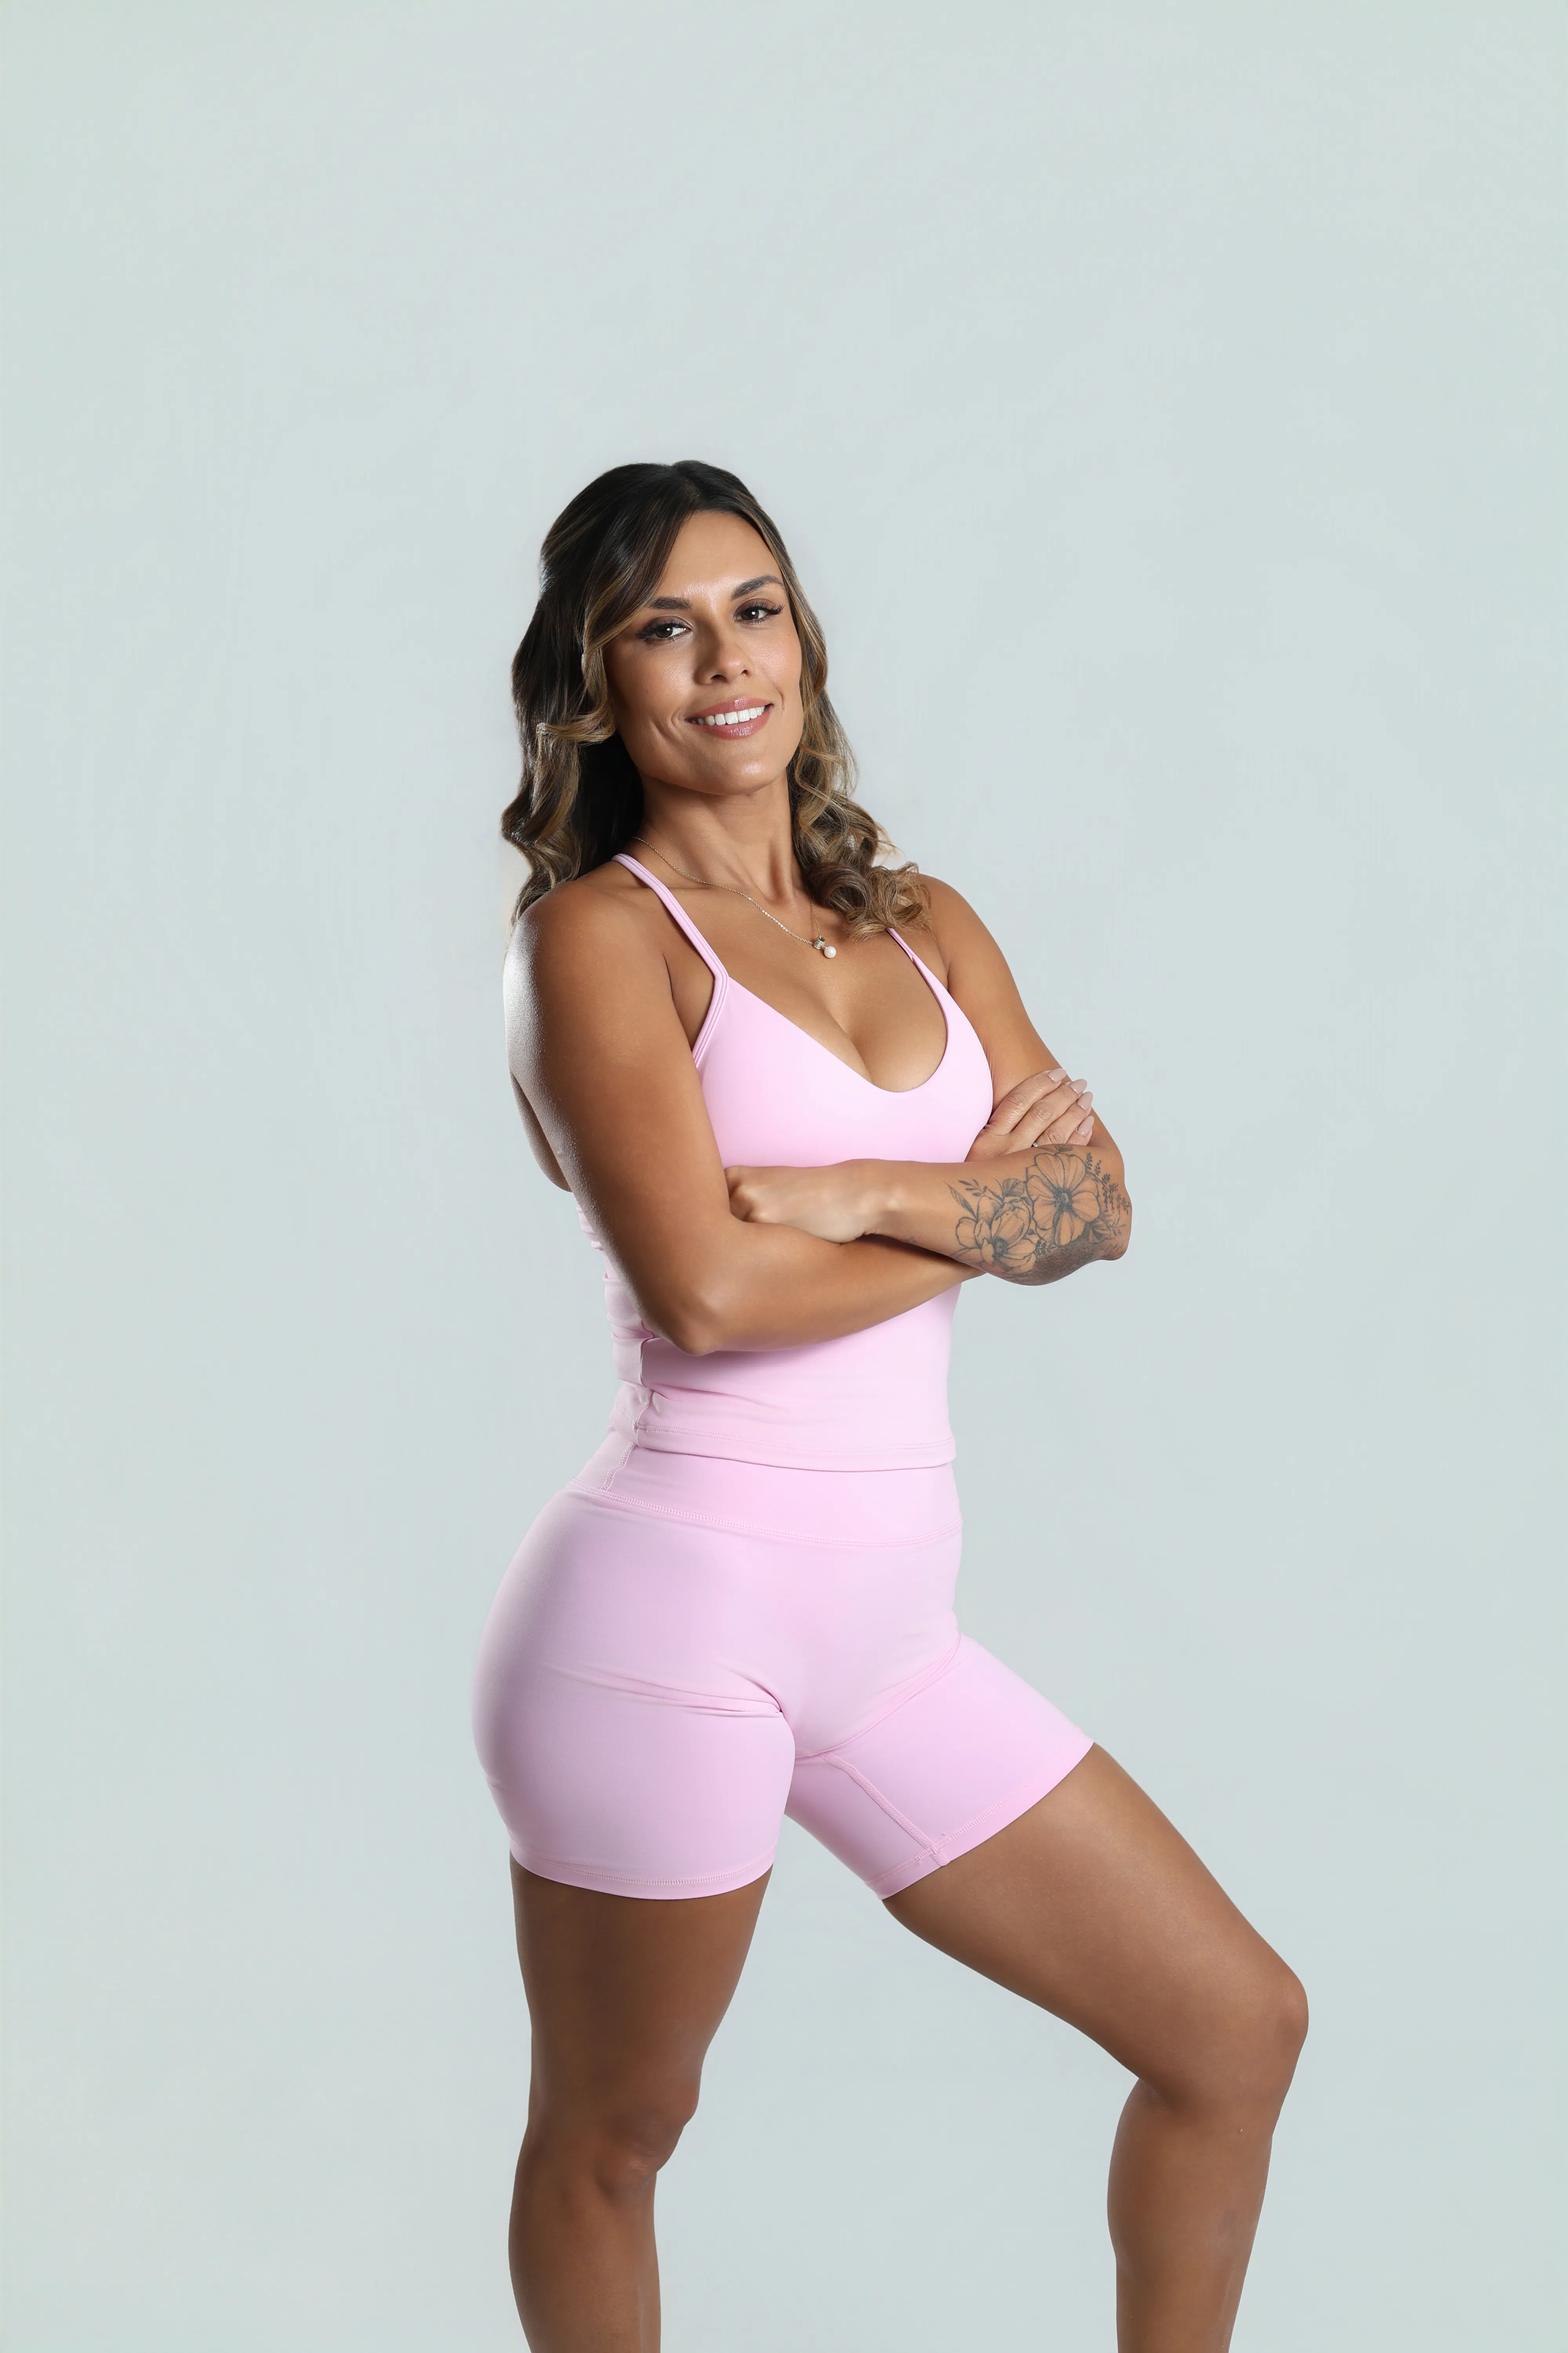
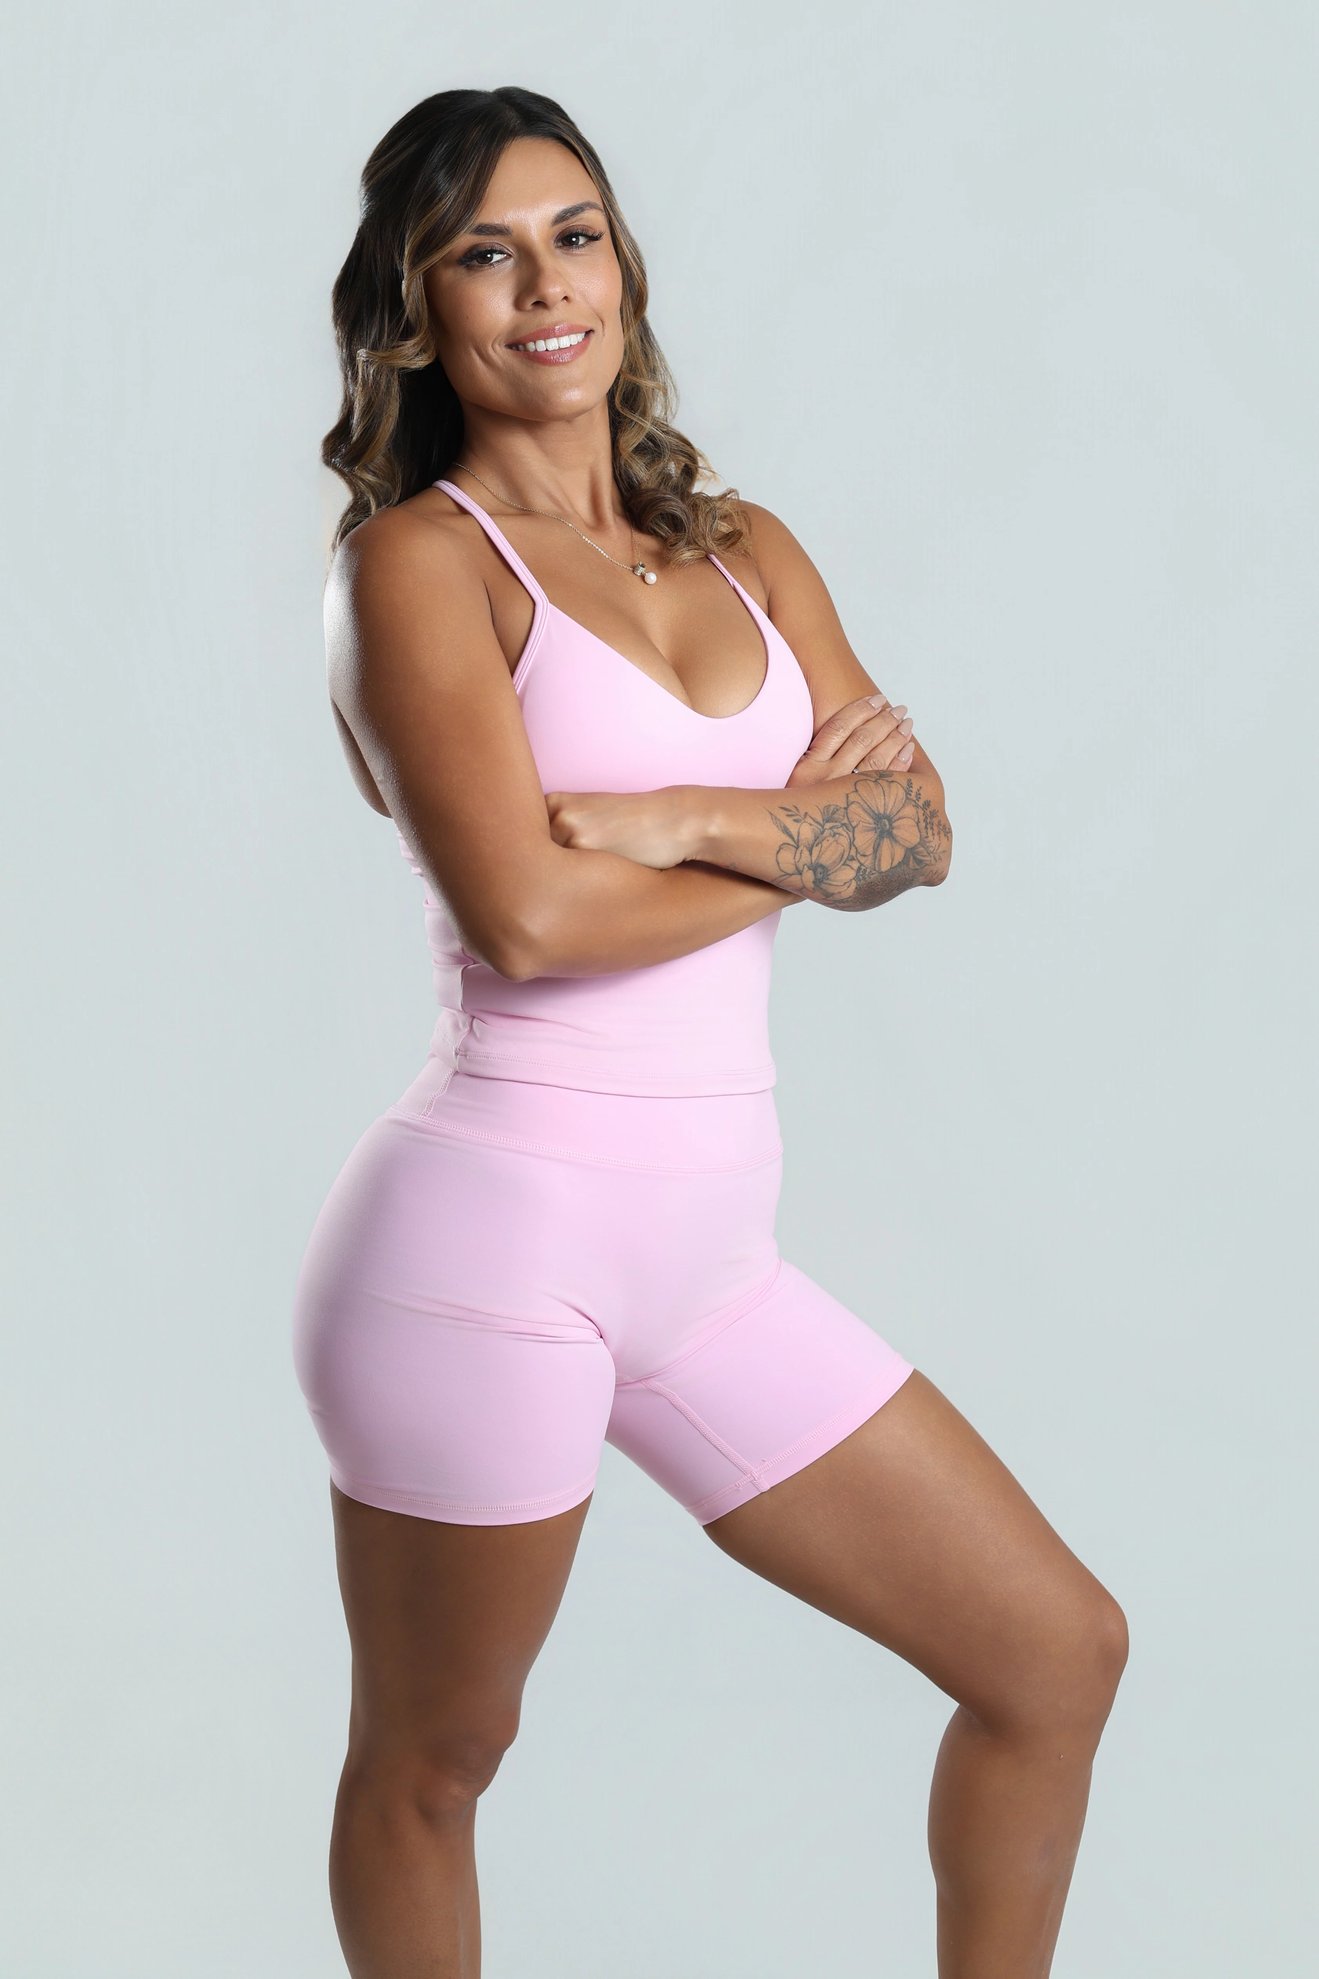
final fixes, previewing revision with client

Changed region(s): [[0.2184, 0.0311, 0.8737, 1.0], [0.7801, 0.9332, 0.8113, 1.0]]

diff --git a/app/app.vue b/app/app.vue
@@ -8,6 +8,7 @@ const { data: websiteContent } = await useFetch(`${config.public.apiBase}/conten
 
 // Subscribe Modal State
 const showSubscribeModal = ref(false)
+const showPrivacyModal = ref(false)
 const certifications = [
   {
     id: 'nasm-wfs',
@@ -569,7 +570,19 @@ onMounted(() => {
             </a>
             <p class="footer-tagline" v-html="$t('landing.footer.tagline')"></p>
             <div class="footer-socials" id="footer-socials">
-              <!-- Icons omitted for brevity, but they should be in standard HTML -->
+              <a
+                href="https://www.instagram.com/millyfitsculptandstrength"
+                target="_blank"
+                rel="noopener noreferrer"
+                class="social-link"
+                aria-label="Instagram"
+              >
+                <svg viewBox="0 0 24 24" fill="none" stroke="currentColor" stroke-width="1.8" stroke-linecap="round" stroke-linejoin="round">
+                  <rect x="2" y="2" width="20" height="20" rx="5" ry="5"></rect>
+                  <path d="M16 11.37A4 4 0 1 1 12.63 8 4 4 0 0 1 16 11.37z"></path>
+                  <line x1="17.5" y1="6.5" x2="17.51" y2="6.5"></line>
+                </svg>
+              </a>
             </div>
           </div>
           <div class="footer-links-group">
@@ -580,11 +593,50 @@ onMounted(() => {
               <li><a href="#pricing">{{ $t('landing.nav.join') }}</a></li>
               <li><a href="#testimonials">{{ $t('landing.nav.community') }}</a></li>
               <li><a href="#faq">FAQ</a></li>
+              <li><a href="#privacy-policy" @click.prevent="showPrivacyModal = true">{{ $t('landing.footer.privacy_link') }}</a></li>
             </ul>
+          </div>
+        </div>
+
+        <div class="footer-bottom">
+          <div class="footer-legal">
+            <span>&copy; {{ new Date().getFullYear() }} MillyFit. {{ $t('landing.footer.rights') }}</span>
+            <span class="footer-legal-sep">·</span>
+            <a href="#privacy-policy" @click.prevent="showPrivacyModal = true" class="footer-privacy-link">
+              {{ $t('landing.footer.privacy_link') }}
+            </a>
+          </div>
+          <div class="footer-credits">
+            <span>{{ $t('landing.footer.developed_by') }}</span>
+            <a href="https://lunavalos.com" target="_blank" rel="noopener noreferrer" class="footer-credits-link" aria-label="LunAvalos">
+              <img src="/credits-logo.webp" alt="LunAvalos" class="footer-credits-logo" />
+            </a>
           </div>
         </div>
       </div>
     </footer>
+
+    <!-- Privacy Policy Modal -->
+    <div v-if="showPrivacyModal" class="subscribe-modal-overlay" @click.self="showPrivacyModal = false">
+      <div class="subscribe-modal privacy-modal">
+        <button class="close-btn" @click="showPrivacyModal = false" aria-label="Close">&times;</button>
+        <h3>{{ $t('landing.privacy.title') }}</h3>
+        <p class="privacy-updated">{{ $t('landing.privacy.updated') }}</p>
+        <div class="privacy-body">
+          <h4>{{ $t('landing.privacy.s1_title') }}</h4>
+          <p>{{ $t('landing.privacy.s1_text') }}</p>
+
+          <h4>{{ $t('landing.privacy.s2_title') }}</h4>
+          <p>{{ $t('landing.privacy.s2_text') }}</p>
+
+          <h4>{{ $t('landing.privacy.s3_title') }}</h4>
+          <p>{{ $t('landing.privacy.s3_text') }}</p>
+
+          <h4>{{ $t('landing.privacy.s4_title') }}</h4>
+          <p>{{ $t('landing.privacy.s4_text') }}</p>
+        </div>
+      </div>
+    </div>
 
     <!-- Subscribe Modal -->
     <div v-if="showSubscribeModal" class="subscribe-modal-overlay" @click.self="closeSubscribeModal">

diff --git a/app/assets/css/style.css b/app/assets/css/style.css
@@ -1780,8 +1780,93 @@ button {
   align-items: center;
   gap: 16px;
   font-size: 0.78rem;
-  color: var(--grey-400);
+  color: var(--grey-600);
   flex-wrap: wrap;
+}
+
+.footer-legal {
+  display: flex;
+  align-items: center;
+  gap: 10px;
+  flex-wrap: wrap;
+}
+
+.footer-legal-sep {
+  color: var(--grey-400);
+}
+
+.footer-privacy-link {
+  color: var(--grey-600);
+  font-weight: 600;
+  text-decoration: underline;
+  text-underline-offset: 3px;
+  transition: color var(--transition);
+}
+
+.footer-privacy-link:hover {
+  color: var(--teal-deep);
+}
+
+.footer-credits {
+  display: inline-flex;
+  align-items: center;
+  gap: 8px;
+  font-size: 0.78rem;
+  color: var(--grey-600);
+}
+
+.footer-credits-link {
+  display: inline-flex;
+  align-items: center;
+  transition: opacity var(--transition), transform var(--transition);
+}
+
+.footer-credits-link:hover {
+  opacity: 0.85;
+  transform: translateY(-1px);
+}
+
+.footer-credits-logo {
+  height: 22px;
+  width: auto;
+  display: block;
+}
+
+.privacy-modal {
+  max-width: 640px !important;
+  max-height: 82vh;
+  display: flex;
+  flex-direction: column;
+  text-align: left;
+}
+
+.privacy-updated {
+  font-size: 0.78rem !important;
+  color: var(--grey-600) !important;
+  margin-bottom: 1rem !important;
+}
+
+.privacy-body {
+  overflow-y: auto;
+  padding-right: 6px;
+  display: flex;
+  flex-direction: column;
+  gap: 12px;
+}
+
+.privacy-body h4 {
+  font-family: var(--font-serif);
+  font-size: 1rem;
+  font-weight: 700;
+  color: var(--black);
+  margin-top: 4px;
+}
+
+.privacy-body p {
+  font-size: 0.88rem;
+  line-height: 1.65;
+  color: var(--grey-600);
+  margin-bottom: 0.25rem !important;
 }
 
 /* ═══════════════════════════════════════════════════════════════
